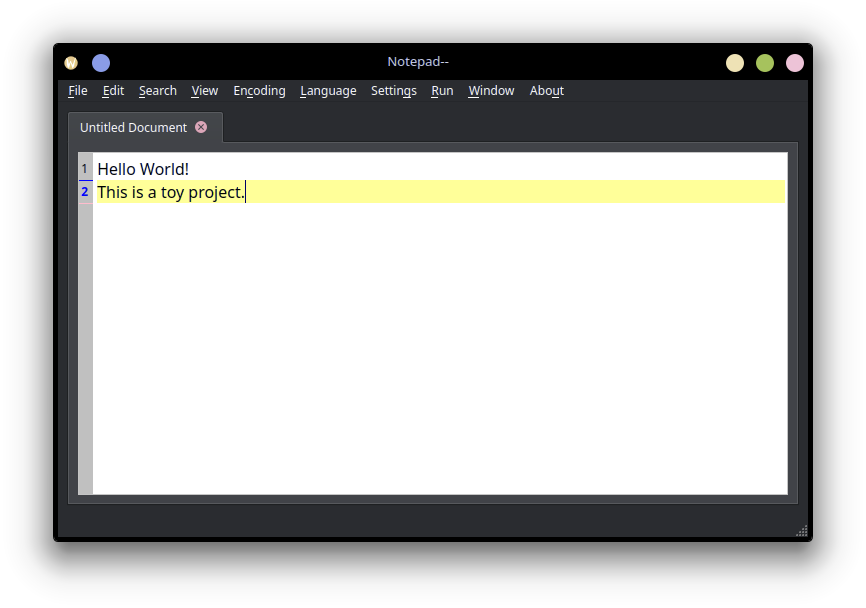
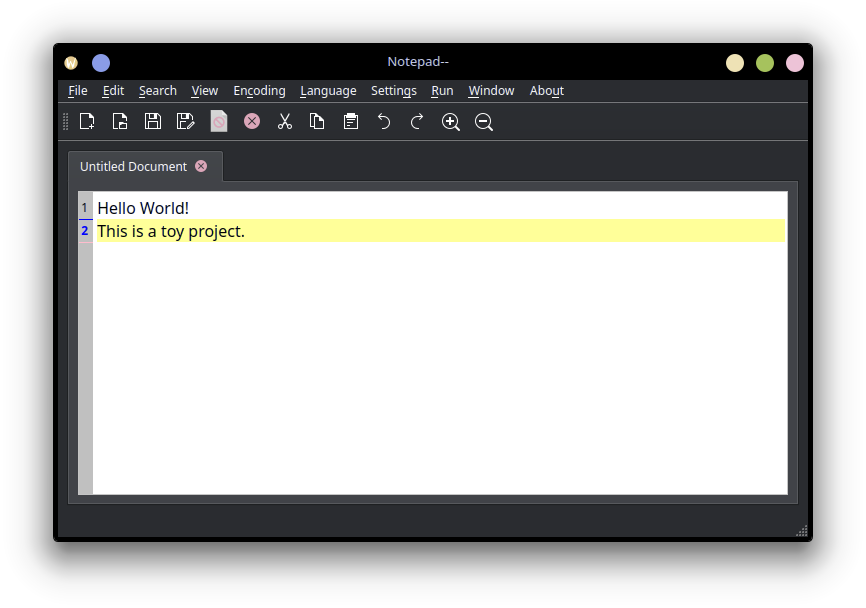
toolbar

Changed region(s): [[0.0624, 0.1562, 0.9353, 0.4062]]

diff --git a/mainwindow.cpp b/mainwindow.cpp
@@ -163,3 +163,63 @@ void MainWindow::on_actionPython_triggered()
     }
 }
 
+
+void MainWindow::on_actionSav_e_all_triggered()
+{
+    // TODO: Save All
+}
+
+
+void MainWindow::on_actionCu_t_triggered()
+{
+    // TODO: Cut
+}
+
+
+void MainWindow::on_action_Copy_triggered()
+{
+    // TODO: Copy
+}
+
+
+void MainWindow::on_action_Paste_triggered()
+{
+    // TODO: Paste
+}
+
+
+void MainWindow::on_action_Undo_triggered()
+{
+    // TODO: Undo
+}
+
+
+void MainWindow::on_action_Redo_triggered()
+{
+    // TODO: Redo
+}
+
+
+void MainWindow::on_actionZoom_In_triggered()
+{
+    // TODO: Zoom In
+}
+
+
+void MainWindow::on_actionoom_Out_triggered()
+{
+    // TODO: Zoom Out
+}
+
+
+void MainWindow::on_action_Restore_Default_Zoom_triggered()
+{
+    // TODO: Restore Default Zoom
+}
+
+
+void MainWindow::on_action_Word_wrap_triggered()
+{
+    // TODO: Word Wrap
+}
+

diff --git a/mainwindow.h b/mainwindow.h
@@ -27,6 +27,26 @@ private slots:
     void on_actionC_3_triggered();
     void on_actionPython_triggered();
 
+    void on_actionSav_e_all_triggered();
+
+    void on_actionCu_t_triggered();
+
+    void on_action_Copy_triggered();
+
+    void on_action_Paste_triggered();
+
+    void on_action_Undo_triggered();
+
+    void on_action_Redo_triggered();
+
+    void on_actionZoom_In_triggered();
+
+    void on_actionoom_Out_triggered();
+
+    void on_action_Restore_Default_Zoom_triggered();
+
+    void on_action_Word_wrap_triggered();
+
 private:
     Ui::MainWindow *ui;
     void openDocument(const QString &filePath);
